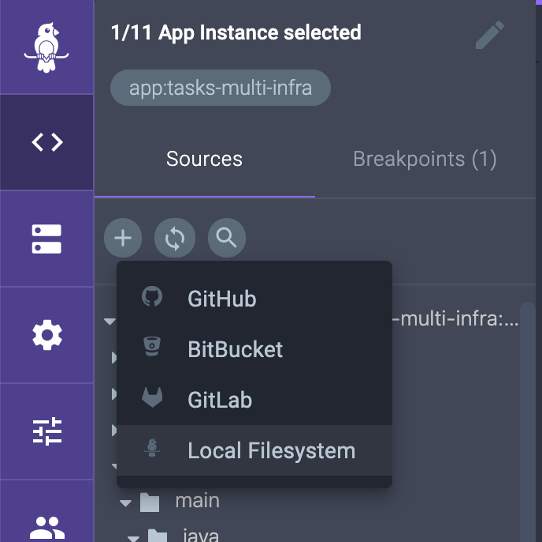
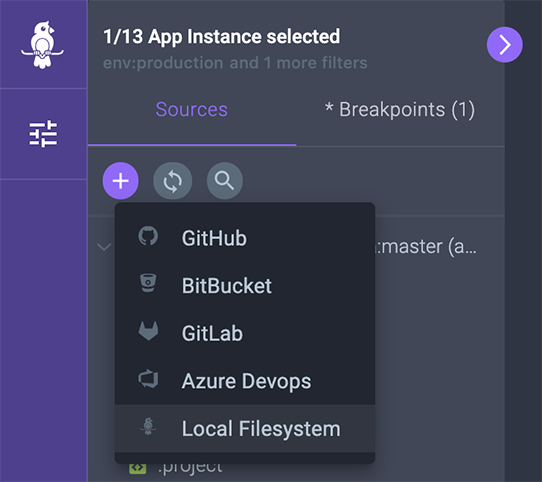
Updated Debug session docs

diff --git a/docs/debug-session-setup.md b/docs/debug-session-setup.md
@@ -3,30 +3,37 @@ id: debug-session-setup
 title: Debug session setup
 sidebar_label: Debug session setup
 ---
-This screen will allow you to select the context of your debug session.
+Once you have deployed Rookout within your application and are ready to begin your debug session, you will first need to select which application instances you would like to debug.
 
 ### Set Up your Debug Session 
-To start a debug session, define at least one of the following filters:
+To start the debug session, you will need to select one or more filters from the table or drop down list as shown in the video below:
 
-<iframe style="margin: 20px 0 0 0" width="560" height="315" src="https://www.youtube.com/embed/s-MdYRgSpbg" frameborder="0" allow="accelerometer; autoplay; encrypted-media; gyroscope; picture-in-picture" allowfullscreen></iframe>
+<iframe style="margin: 20px 0 0 0" width="560" height="315" src="https://www.youtube.com/embed/T20vi4CIKwM" frameborder="0" allow="accelerometer; autoplay; encrypted-media; gyroscope; picture-in-picture" allowfullscreen></iframe>
 
-**Env**:\
-Choose instances that are running in a specific environment. 
+Filters can be chosen either directly from the table by clicking on the appropriate row/column in the table or from the drowndown menu by choosing from the following categories:
+
+**Labels**:\
+Labels are *name:value* pairs which you can tag instances with when you deploy Rookout. It is a best practice to label environments using the 'env' name, for example 'env:prod'. To read more about labels, see the [labels](https://docs.rookout.com/docs/projects-labels/) page.
 
 **Repository**:\
-Choose instances according to their source code repositories.
+Choose instances according to their source code repositories. You will need to ensure you have confirugred automatic source code fetching as desribed on the [source code fetching](https://docs.rookout.com/docs/source-repos/) page.
 
-**Other Filters**:\
-Filter your instances by [labels](projects-labels.md) that were manually defined during the Rookout SDK setup, 
-or filter by a specific hostname, label, process, IP, etc…
+**Hosts**:\
+This filter allows you to select an instances by IP address or hostname.
+
+**Revisions**:\
+This filter allows you to select an instance based on a source code commit revision hash.
+
+**Process**:\
+This filter allows you to select an instance based on a process name.
+
+**General Filters**:\
+This section contains the 'serverless' filter. Since serverless instances don't execute until the serverless function is invoked, this filter allows you to start your debug session before your instance is running.
 
 
-Now, you can see the instances you will debug on the next debug session,\
-according to the selected filters. Click **Let's go** to start your debug session.
+Click **Start Debugging** to start your debug session.
  
+<img src="/img/screenshots/arrow_to_server_selection.png"/>
 
-
-<img src="/img/screenshots/pencil_to_server_selection.png"/>
-
-Click on the pencil from your current debug session to **edit and change instances**.
+Click on the purple arrow from your current debug session to **edit and change selected instances**.
 

diff --git a/docs/source-repos.md b/docs/source-repos.md
@@ -18,6 +18,7 @@ Rookout integrates directly to the cloud editions of the following Git Providers
 1. Github
 2. BitBucket
 3. GitLab
+4. Azure DevOps
 
 In addition, Rookout offers a desktop app for fetching source repositories from a local file system.
 This allows fetching source code from local editions of Git providers, as well as from Perforce.
@@ -46,7 +47,7 @@ When auto source loading happens the git files will be cloned on your local mach
 **Mac**: $HOME/Library/Application Support/Rookout/git_root\
 **Linux**: $HOME/.Rookout/git_root
 
-For teams that have self-hosted / on-prem repositories, it is required that the Rookout Desktop Application be installed first. You must also have git or perforce command line tools installed on your machine.  To install the Rookout Desktop App, click on the **+** button in the debugger view, choose **Local Filesystem**, and then follow the steps to download and install the Rookout Desktop App.
+For teams that have BitBucket self-hosted / on-prem repositories, it is required that the Rookout Desktop Application be installed first. You must also have git or perforce command line tools installed on your machine.  To install the Rookout Desktop App, click on the **+** button in the debugger view, choose **Local Filesystem**, and then follow the steps to download and install the Rookout Desktop App.
 
 <img src="/img/screenshots/local_file_system.png" width="40%" />
 
